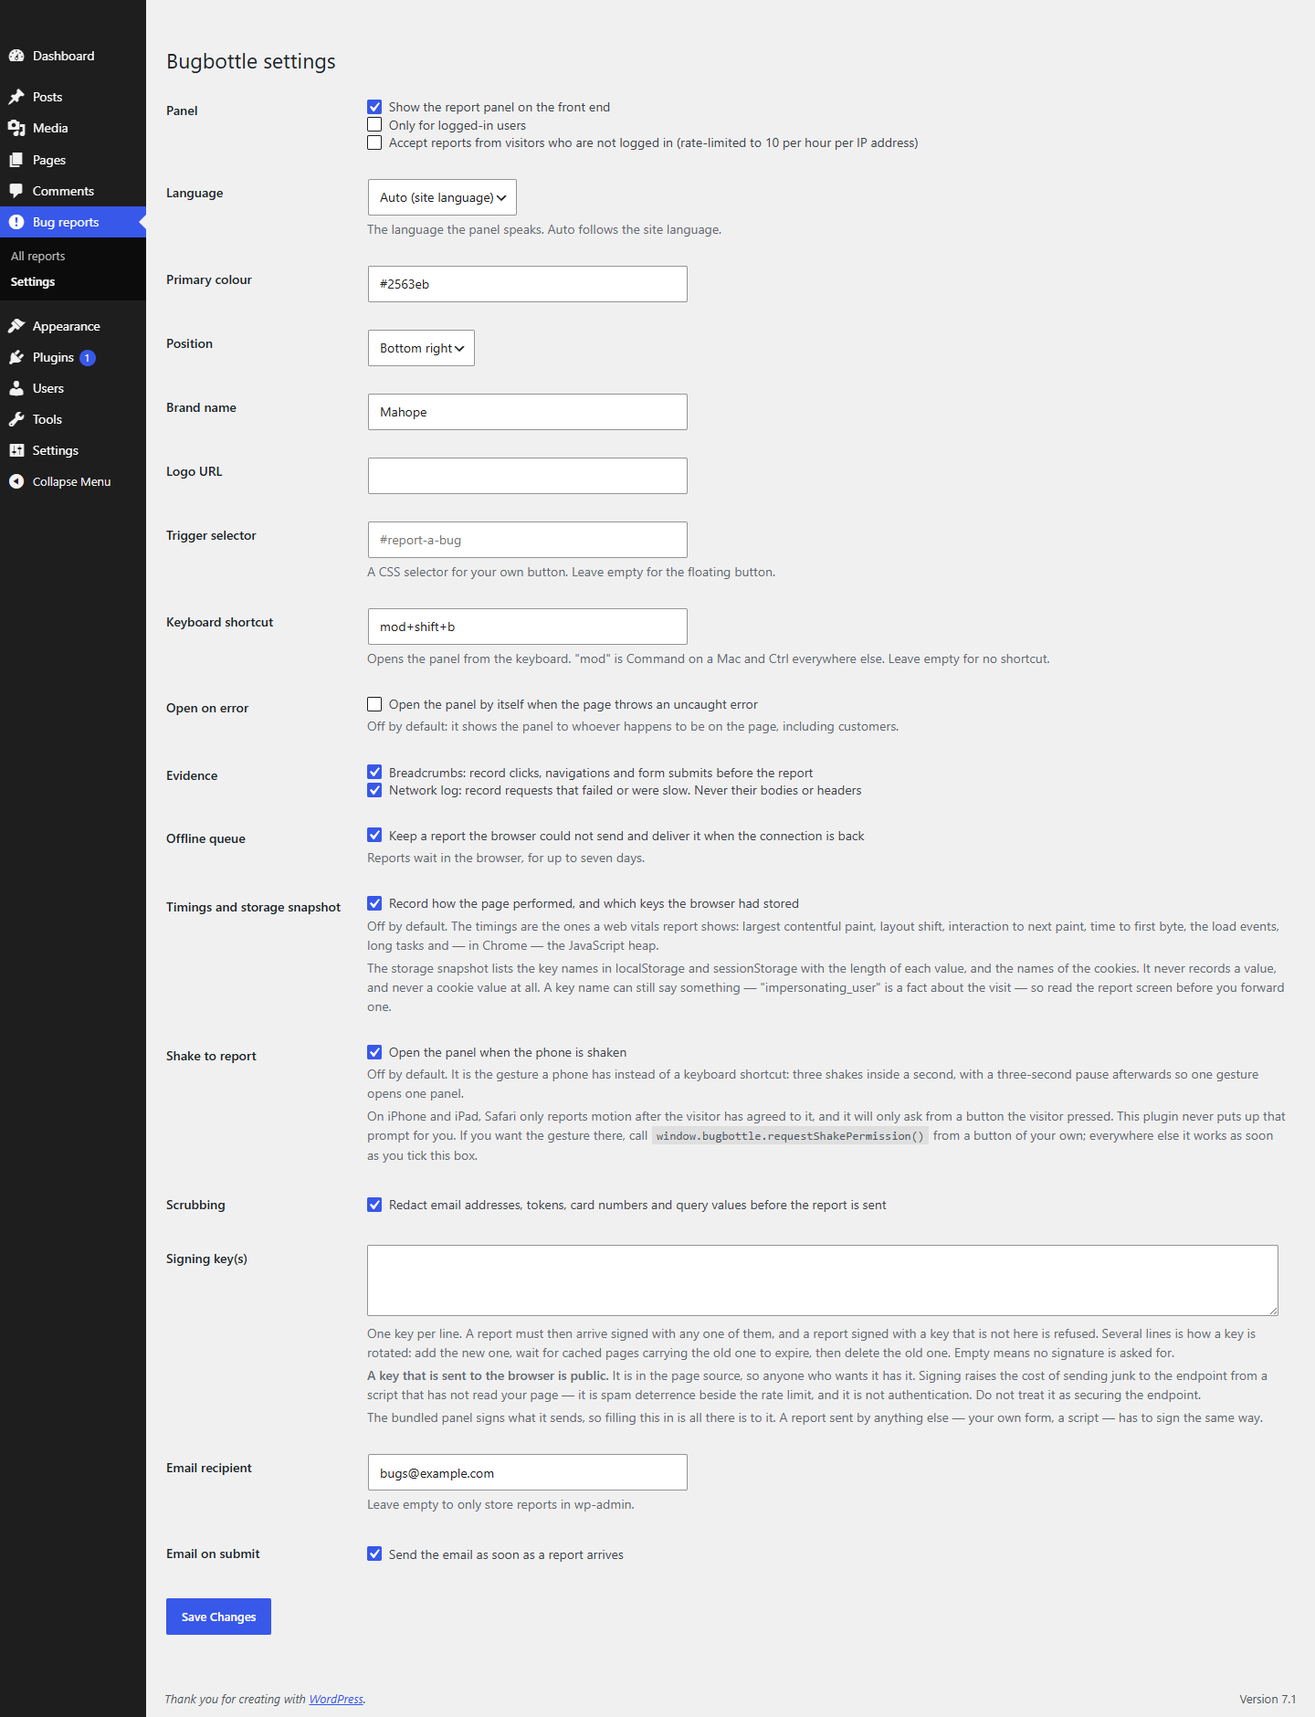
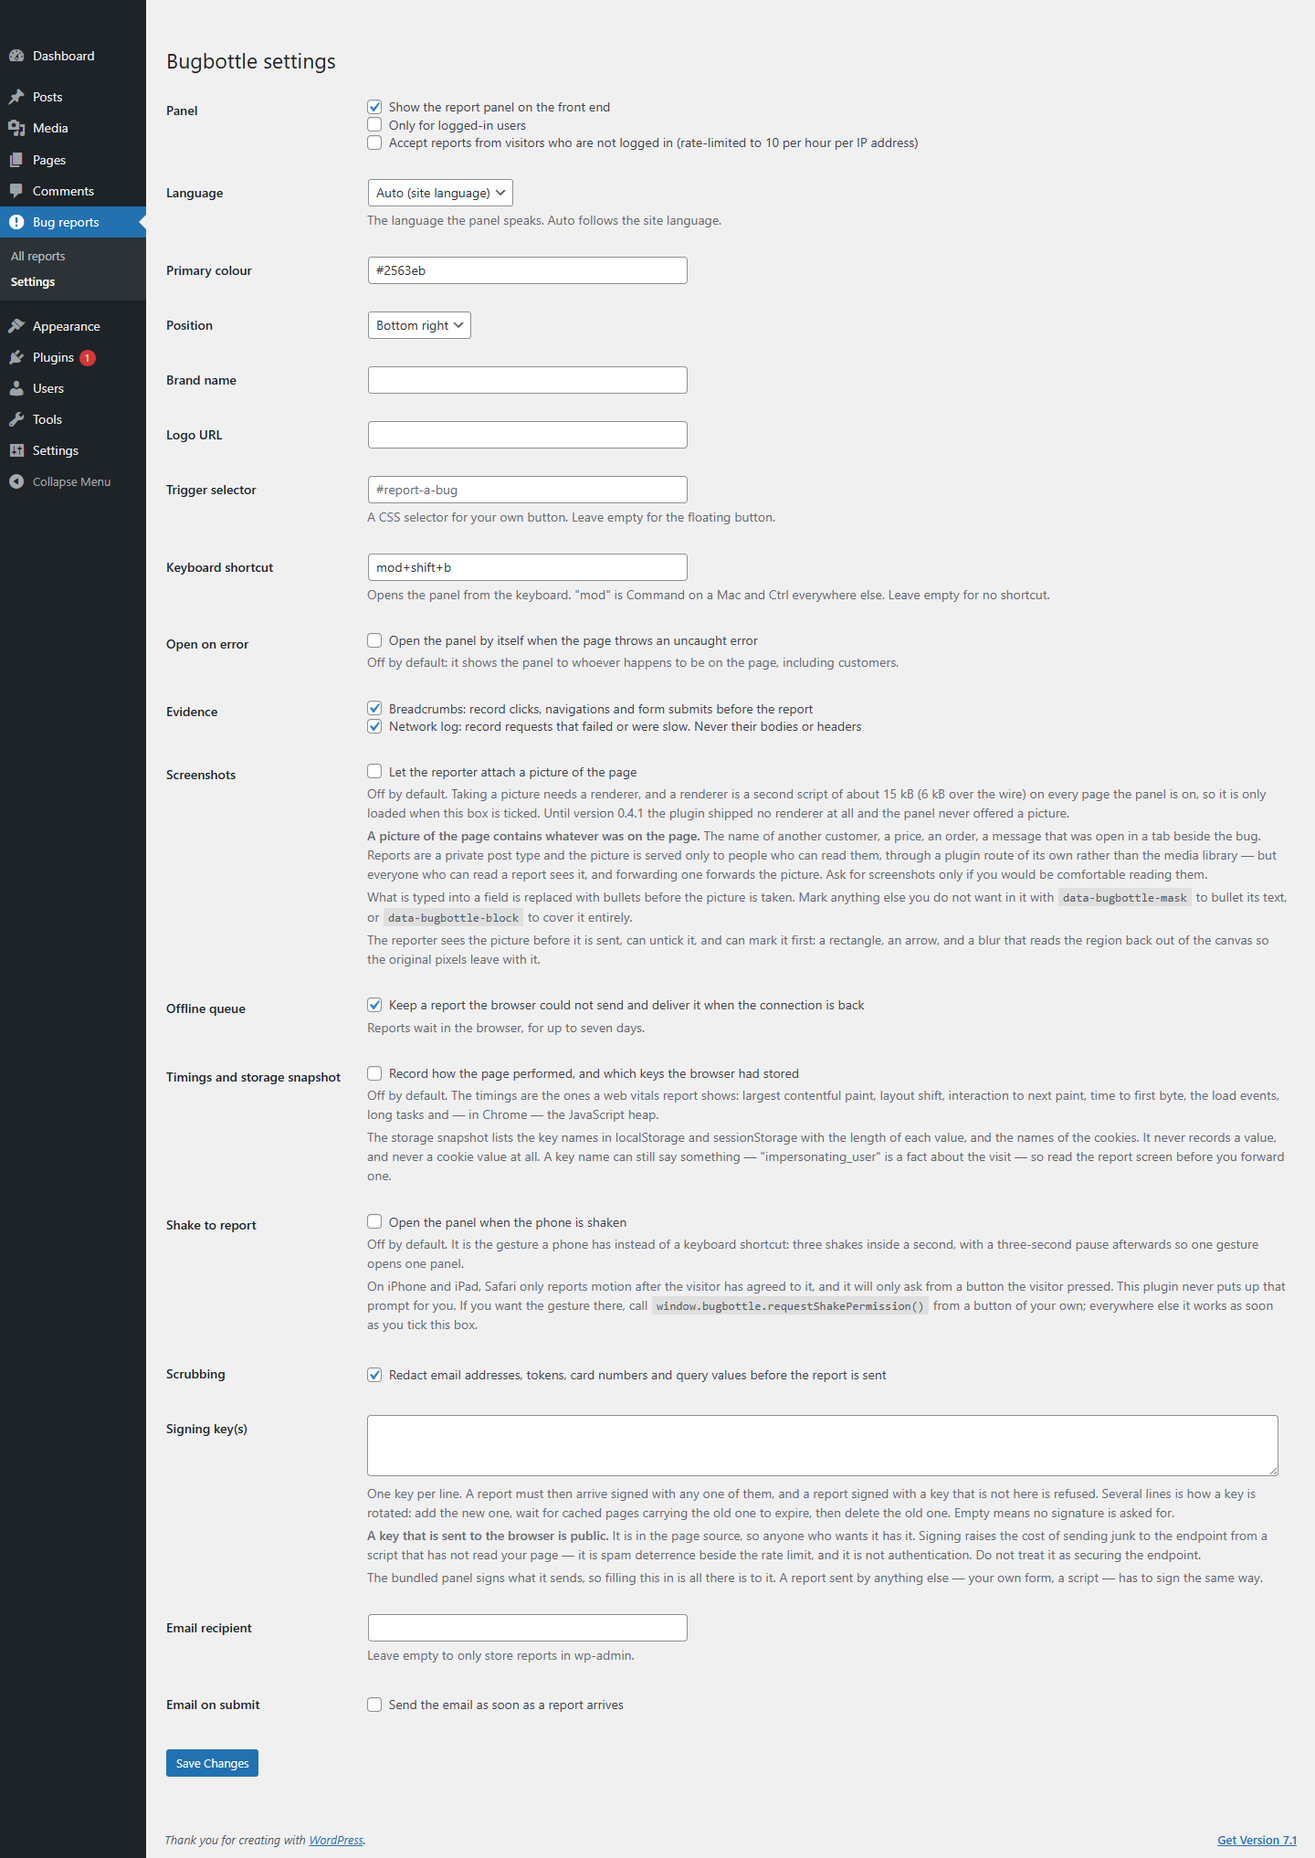
Release 0.4.1
`Version`, `VERSION` and `Stable tag` all read 0.4.1. The changelog entries in
both files open by saying plainly that 0.1.0 to 0.4.0 took no pictures, because
a site owner who installed this for the screenshots is owed that sentence
before anything else.

The prose that described a picture the plugin could not take is corrected
throughout: the README intro and its bullet about one JavaScript file, "What a
report carries", "Please read this part" — which now opens with the setting
being off and has a fourth rule for what is hidden before the render — and a
new "The renderer" section under "The bundled panel". In `readme.txt`: the
intro, the report-contents list, the privacy section, the screenshot captions,
the licence paragraph and the FAQ, which gains the question a reader will
actually ask. `SUBMIT.md` says both bundles have to come from the same library
release.

Screenshot 4 regenerated headlessly against a scratch install, so the settings
screen in the plugin directory shows the Screenshots row and its warning.

diff --git a/bugbottle.php b/bugbottle.php
@@ -3,7 +3,7 @@
  * Plugin Name:       Bugbottle
  * Plugin URI:        https://bugbottle.dev
  * Description:       In-app bug reports that arrive with the evidence attached. Adds the bugbottle panel to the front end and receives the reports as a private post type in wp-admin.
- * Version:           0.4.0
+ * Version:           0.4.1
  * Requires at least: 6.4
  * Requires PHP:      8.1
  * Author:            Mads Holst Jensen
@@ -19,7 +19,9 @@
  * any later version.
  *
  * The bundled `assets/bugbottle.js` is the unmodified MIT-licensed build of
- * the bugbottle library; see `assets/LICENSE-bugbottle.txt`. MIT is
+ * the bugbottle library, and `assets/bugbottle-screenshot.js` is that library's
+ * screenshot renderer bundled with the MIT-licensed html-to-image by
+ * `bin/build-screenshot-bundle.sh`; see `assets/LICENSE-bugbottle.txt`. MIT is
  * GPL-compatible, so the combined work is distributable under the GPL.
  *
  * @package Bugbottle
@@ -33,7 +35,7 @@ if ( ! defined( 'ABSPATH' ) ) {
 	exit;
 }
 
-const VERSION = '0.4.0';
+const VERSION = '0.4.1';
 
 /**
  * The bugbottle release `assets/bugbottle.js` was copied from. Bump it in the

diff --git a/README.md b/README.md
@@ -5,8 +5,9 @@ The [bugbottle](https://github.com/mahope/bugbottle) panel — see it at
 endpoint, in one activation. Reports land as a private post type in wp-admin —
 with the page, the viewport, the recent console errors and their stack frames,
 the requests that failed, the element the reporter pointed at, what they did
-just before, and optionally a picture of what they were looking at — and are
-emailed on if you give it a recipient.
+just before, and — when you turn screenshots on — a picture of what they were
+looking at, which they can mark up first. Reports are emailed on if you give it
+a recipient.
 
 Error trackers catch what throws. They cannot catch what merely looks wrong,
 and they never tell you what the person was doing when it did. *"The save
@@ -18,7 +19,8 @@ button does nothing"* is not a report anyone can act on.
   your uploads directory. There is no vendor in the middle.
 - **Your language, your brand.** Eight locales, following the site language by
   default; colour, position, name and logo on the settings screen.
-- **No build step, no Composer.** The plugin is PHP and one JavaScript file.
+- **No build step, no Composer.** The plugin is PHP and two JavaScript files,
+  the second of which is only loaded when screenshots are on.
 
 Requires WordPress 6.4 and PHP 8.1.
 
@@ -54,6 +56,7 @@ database, not in the plugin directory.
 | Keyboard shortcut | The combination that opens the panel. `mod` is Command on a Mac and Ctrl everywhere else; `mod+shift+b` by default. Empty means no shortcut. |
 | Open on error | Opens the panel by itself when the page throws an uncaught error. Off by default — it shows the panel to whoever is on the page, customers included. |
 | Evidence | Breadcrumbs (clicks, navigations, submits) and the network log (requests that failed or were slow — method, URL, status and duration, never a body or a header). Both on. |
+| Screenshots | Lets the reporter attach a picture of the page, and mark it before sending: a rectangle, an arrow, and a blur that really destroys what it covers. **Off by default**, and it is the setting to think hardest about — read [Please read this part](#please-read-this-part). Turning it on loads a second script, `assets/bugbottle-screenshot.js`, about 15 kB (6 kB over the wire), on every page the panel is on. |
 | Offline queue | Keeps a report the browser could not send and delivers it when the connection is back. Reports wait in the browser for up to seven days. On by default. |
 | Scrubbing | Redacts email addresses, bearer tokens, JWTs, card numbers, IBANs and query values before the report is sent. On by default. |
 | Timings and storage snapshot | Records what the page cost — largest contentful paint, layout shift, interaction to next paint, time to first byte, the load events, long tasks, and the JS heap in Chrome — and lists the key names in `localStorage` and `sessionStorage` with the length of each value, plus the cookie names. **Names only, never values**, and never a cookie value at all. Off by default. |
@@ -198,6 +201,10 @@ are capped on the way in: fifty keys per store, a hundred cookie names, a
 hundred characters per name, and an hour as the longest duration any figure
 may claim.
 
+A picture of the page is there only when **Screenshots** is on, the report is
+one the box was ticked for, and the reporter left it ticked. Before 0.4.1 there
+was never one at all: the plugin shipped no renderer, so the panel hid the row.
+
 None of that says more about the person than the user agent already does, and
 nothing beyond that list is collected: no canvas fingerprint, no font
 enumeration, no device enumeration.
@@ -209,8 +216,12 @@ clinical system that can mean a patient photograph; in a payroll tool, a
 salary; in yours, perhaps somebody's inbox or a half-written message they had
 not sent yet.
 
-Three things follow. The plugin does the first two for you; the third it
-cannot:
+That is why **Screenshots is off until you turn it on**. Leaving it off is a
+complete answer: no renderer is loaded, the panel does not offer a picture, and
+no report can carry one.
+
+Four things follow if you do turn it on. The plugin does the first three for
+you; the fourth it cannot:
 
 1. **Screenshots are kept out of the media library.** They are written to
    `wp-content/uploads/bugbottle/` under a random name, never registered as
@@ -225,7 +236,14 @@ cannot:
    `GET /wp-json/bugbottle/v1/screenshot/<id>` requires `manage_options`. The
    `<id>` is the report, and the file name is looked up from that row rather
    than taken from the request, so an id cannot be used to walk the directory.
-3. **Say so before the picture is taken.** The panel says it, in the note next
+3. **What was typed is hidden before the picture is taken.** Every `input`,
+   `textarea` and `contenteditable` is replaced with bullets for the length of
+   one render and put straight back, so the picture shows a filled-in form of
+   the right shape without the values. Mark anything else that must not be in
+   it with `data-bugbottle-mask` (its text is bulleted) or
+   `data-bugbottle-block` (it is covered entirely). Nothing else is hidden: a
+   name printed in a heading is a name in the picture.
+4. **Say so before the picture is taken.** The panel says it, in the note next
    to the checkbox — not in a policy nobody opens. If you reword it, keep it
    saying it.
 
@@ -269,32 +287,57 @@ that hands it in. Calling it is what puts "Edit picture" — the rectangle, the
 arrow and the blur that really destroys what it covers — in the panel wherever
 there is a picture to mark, with nothing added here.
 
-There is not one yet. A picture means `html-to-image`, which is larger than
-everything else in the bundle put together, so the one-script-tag build ships
-no renderer and the panel hides the screenshot row without one. The REST route
-accepts and stores a picture all the same, from a form of your own or from a
-page that mounts the panel itself with a renderer — which is what "Please read
-this part" above is about.
+### The renderer
+
+Taking a picture needs a renderer, and the one-script-tag build deliberately
+carries none: a picture means `html-to-image`, which is larger than everything
+else in the bundle put together, and a page that only wants the panel should
+not download it. Versions 0.1.0 to 0.4.0 shipped no renderer at all, so the
+panel hid the screenshot row and the plugin never took a picture — whatever the
+prose said.
+
+Since 0.4.1 there is a second file for it. `assets/bugbottle-screenshot.js` is
+the library's `bugbottle/html-to-image` entry bundled together with
+`html-to-image` as an IIFE that sets `window.bugbottleScreenshot`, and it is
+enqueued only when **Screenshots** is on, with the panel bundle as its
+dependency. The mount script then passes
+`window.bugbottleScreenshot.htmlToImage` as `screenshot`, which is what makes
+the panel show the row — and, because `mount()` has already handed the
+annotator in, what puts "Edit picture" under the preview.
+
+`bin/build-screenshot-bundle.sh` builds that file and is the only thing that
+should: it pins bugbottle, `html-to-image` and esbuild by exact version, writes
+the MIT notice into the header, and prints the md5 that `CHANGELOG.md` records.
+Both bundles are enqueued with the same `LIB_VERSION`, so they must come from
+the same library release.
 
 ## Development
 
 ```bash
 composer install                 # dev only: PHPStan and the WordPress stubs
 vendor/bin/phpstan analyse       # level 5, clean
-wp i18n make-pot . languages/bugbottle.pot --domain=bugbottle --exclude=assets,vendor,tests
-wp i18n make-mo languages/
+wp i18n make-pot . languages/bugbottle.pot --slug=bugbottle --exclude=vendor,tests,bin,.wordpress-org,assets
+wp i18n update-po languages/bugbottle.pot languages/bugbottle-da_DK.po
+wp i18n make-mo languages/bugbottle-da_DK.po languages/
 ```
 
-There are three test files, none of which needs a framework:
+There are four test files, none of which needs a framework:
 
 ```bash
 php tests/test-report-parity.php      # the validators and the Markdown, against the library
+php tests/test-screenshot.php         # the PNG decoder and the Screenshots setting
 php tests/test-signature.php          # the signature rules, no WordPress needed
 wp eval-file tests/test-rest-signature.php   # the REST route, from a scratch install
 ```
 
 The last writes settings and stores reports, so point it at a scratch install
-and never at a live site. All three exit non-zero on a failure.
+and never at a live site. All four exit non-zero on a failure.
+
+Rebuilding the screenshot renderer needs node and npm, and nothing else:
+
+```bash
+bin/build-screenshot-bundle.sh   # writes assets/bugbottle-screenshot.js, prints its md5
+```
 
 `tests/test-report-parity.php` is what pins the PHP port to the library: it
 holds one report carrying every section, and the Markdown and the validated
@@ -309,5 +352,8 @@ tagged release also ships to the wordpress.org SVN repository.
 
 ## Licence
 
-GPL-2.0-or-later. The bundled `assets/bugbottle.js` stays MIT-licensed; see
+GPL-2.0-or-later. The two bundled JavaScript files stay MIT-licensed —
+`assets/bugbottle.js` is the bugbottle library, `assets/bugbottle-screenshot.js`
+is that library's renderer together with
+[html-to-image](https://github.com/bubkoo/html-to-image); see
 `assets/LICENSE-bugbottle.txt`.

diff --git a/CHANGELOG.md b/CHANGELOG.md
@@ -6,6 +6,84 @@ repository directly; keep the two in step.
 
 ## Unreleased
 
+## 0.4.1 — 2026-09-08
+
+**The panel had never taken a screenshot.** Not in 0.1.0, not in 0.4.0. The
+bundled `assets/bugbottle.js` is the library's one-script-tag build, and that
+build carries no renderer on purpose — a picture means `html-to-image`, which
+is larger than the rest of the panel put together. Without a renderer the panel
+hides the screenshot row, so no report the panel sent ever had a picture on it,
+however plainly the readme, the intro and the privacy section said otherwise.
+The route accepted and stored one all along, which is why nothing looked
+broken: a picture only ever arrived from a form somebody wrote themselves.
+
+This release ships the renderer and makes it a setting, so the plugin does what
+it says. (Reported as issue #4.)
+
+### Added
+
+- **`assets/bugbottle-screenshot.js`**, 14,999 bytes (md5
+  `7f729536c46c40e2c7f95b356ddc01f8`), about 6 kB over the wire. It is the
+  library's `bugbottle/html-to-image` entry — one expression, `toPng` with the
+  mask filter and pixel ratio the panel passes — bundled together with
+  `html-to-image` 1.11.13 by esbuild 0.28.2 as an IIFE that sets
+  `window.bugbottleScreenshot`. `bin/build-screenshot-bundle.sh` is the exact
+  command, with all three versions pinned; running it twice gives the same
+  bytes, so the md5 above is checkable. Both bundled files are MIT, and the
+  notice is now in the file header, in `assets/LICENSE-bugbottle.txt` and in
+  `readme.txt`'s source-and-licence section.
+- **Screenshots**, a setting, **off by default**. The renderer is enqueued only
+  when it is on, with the panel bundle as its dependency, so a site that leaves
+  it off downloads nothing extra and no report can carry a picture at all —
+  which is a complete answer to the privacy question, and the reason the
+  default is off. When it is on, `Assets::config_script()` passes
+  `window.bugbottleScreenshot.htmlToImage` as `screenshot`, the panel shows the
+  row, and because the bundled `mount()` already hands `createAnnotator` in,
+  "Edit picture" — rectangle, arrow, and a blur that reads the region back out
+  of the canvas so the original pixels leave with it — appears under the
+  preview by itself. Verified end to end in a real Chrome against a real
+  WordPress served by `php -S`: with the setting on the report carried a
+  1280×1358 PNG that `getimagesize` accepts, stored under a random name in the
+  uploads directory; with it off there was no second script tag, no
+  `window.bugbottleScreenshot`, no screenshot row and no picture on the report.
+- The settings text says what a picture of the page contains, that everyone who
+  can read a report sees it, that field values are bulleted before the render,
+  and that `data-bugbottle-mask` and `data-bugbottle-block` are how anything
+  else is kept out of it. That text is load-bearing; do not soften it.
+- `.gitattributes`, marking both bundles `-text` and the compiled catalogue
+  binary. Without it a checkout on Windows rewrites the line endings of a file
+  whose md5 this changelog asks you to verify.
+- `tests/test-screenshot.php`: fifteen checks over `decode_screenshot()` and
+  the setting. The decoder was already correct — it reads the PNG signature out
+  of the **decoded bytes** rather than trusting the `data:` label, exactly as
+  the library's TypeScript does, so nothing needed porting — but nothing pinned
+  it. A JPEG wearing a PNG label, an HTML login page returned in a renderer's
+  place, a buffer shorter than the signature, and a data URL past the ceiling
+  are all refused, and screenshots stay off through a form that does not
+  mention them.
+
+### Fixed
+
+- **The screenshot on the report detail screen never loaded.** An `<img>` is
+  fetched by the browser and carries no `X-WP-Nonce` header, and
+  `rest_cookie_check_errors()` treats a cookie request with no nonce as
+  anonymous — so `may_read_screenshot()` refused an administrator looking at
+  their own report, and the picture came back `401`. `Rest::screenshot_src()`
+  puts a REST nonce in the query string, where WordPress looks second. The
+  `manage_options` check is untouched: the nonce authorises nothing, it only
+  keeps the request from being thrown away before the check runs.
+- The picture on that screen has alt text now, naming the report it belongs to,
+  rather than `alt=""`.
+
+### Changed
+
+- The prose that described a picture the plugin could not take: the README
+  intro, its "Please read this part" (which grew a fourth rule — what is hidden
+  before the render — and now opens with the setting being off), "What a report
+  carries", "The bundled panel", `readme.txt`'s intro, its screenshot list, its
+  privacy section and the FAQ. The 0.4.0 annotator line in both changelogs now
+  points here rather than implying there was ever a picture to mark.
+
 ## 0.4.0 — 2026-09-08
 
 Follows the library to bugbottle 0.7.0. That is the release signing arrives
@@ -13,7 +91,7 @@ in, so the signing key setting below — written and tested against the server
 side first — works from this version on: the bundled panel signs what it
 sends. Two more things 0.7.0 added are settings here, both off by default, and
 one of them — marking the screenshot before it is sent — needed nothing here at
-all.
+all, though there was no picture to mark until 0.4.1.
 
 ### Added
 
@@ -101,9 +179,9 @@ all.
   `mount()` is the wrapper that hands it in. Calling it is what puts "Edit
   picture" — rectangle, arrow, and a blur that reads the region back out of the
   canvas so the original pixels leave with it — in the panel wherever there is a
-  picture to mark, with nothing added here. There is not one yet: the
-  one-script-tag build carries no `html-to-image`, so the panel hides the
-  screenshot row, and a stored picture still comes from a form of your own.
+  picture to mark, with nothing added here. There was none in this release: the
+  one-script-tag build carries no `html-to-image`, so the panel hid the
+  screenshot row. 0.4.1 is where the renderer arrives.
 - The panel's Escape handling and its annotator fixes came with the bundle and
   needed no change in the plugin.
 

diff --git a/SUBMIT.md b/SUBMIT.md
@@ -82,11 +82,17 @@ develop — do not hand-edit files inside an SVN checkout.
 1. Bump `Version:` in `bugbottle.php`, `const VERSION` in `bugbottle.php`,
    `Stable tag:` in `readme.txt`, and add a changelog entry to both
    `readme.txt` (`== Changelog ==`) and `CHANGELOG.md`.
-2. `composer install && vendor/bin/phpstan analyse` — clean.
-3. Re-sync a local WordPress install and re-run Plugin Check
+2. If the bundled library moved, replace **both** bundles from the same
+   release: copy `dist/bugbottle.js` over `assets/bugbottle.js`, run
+   `bin/build-screenshot-bundle.sh` with `LIB_VERSION` in it bumped to match,
+   and put both md5s in `CHANGELOG.md`. They are enqueued with one version
+   string, so they cannot come from different releases.
+3. `composer install && vendor/bin/phpstan analyse` — clean, and the four test
+   files in `tests/` green.
+4. Re-sync a local WordPress install and re-run Plugin Check
    (`wp plugin install plugin-check --activate` once, then
    `wp plugin check bugbottle --format=table` every time) — no errors.
-4. Commit, then tag and push:
+5. Commit, then tag and push:
    ```bash
    git tag vX.Y.Z
    git push origin main --tags
@@ -94,7 +100,7 @@ develop — do not hand-edit files inside an SVN checkout.
    Pushing the tag triggers `.github/workflows/release.yml`: it builds
    `bugbottle.zip` with `bin/build-zip.sh` and attaches it to a GitHub
    release.
-5. Ship the same version to wordpress.org, either:
+6. Ship the same version to wordpress.org, either:
    - **Automatically** — once `SVN_USERNAME` and `SVN_PASSWORD` exist as
      repository secrets (Settings → Secrets and variables → Actions), the
      same tag push also runs `.github/workflows/deploy-wporg.yml`, which
@@ -104,7 +110,7 @@ develop — do not hand-edit files inside an SVN checkout.
      fails, it is just a no-op.
    - **By hand** — `bin/deploy-wporg.sh X.Y.Z`, with `SVN_USERNAME` and
      `SVN_PASSWORD` set as environment variables. Needs `svn` on `PATH`.
-6. Check `https://wordpress.org/plugins/bugbottle/` shows the new version
+7. Check `https://wordpress.org/plugins/bugbottle/` shows the new version
    (this can take a few minutes to a couple of hours to refresh) and that
    updating a real site's existing install offers it.
 
